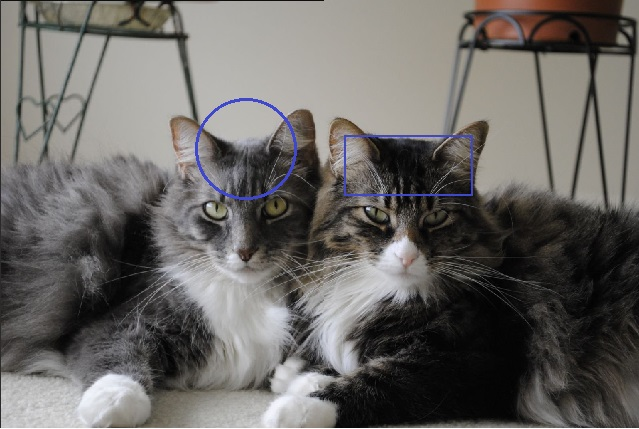
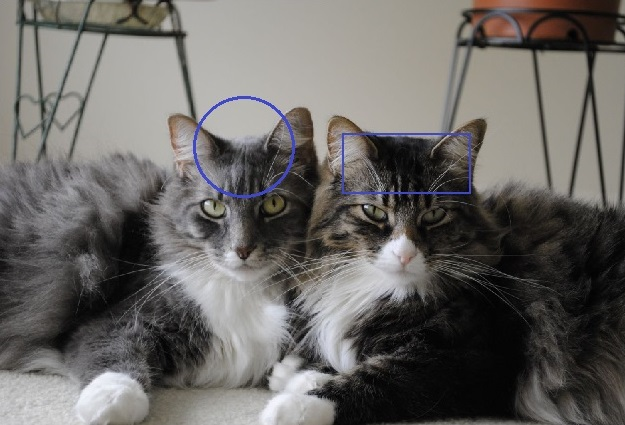
a3

diff --git a/Task_4/This_is_exactly_task_1/This_is_absolutely_exactly_task_1/index.html b/Task_4/This_is_exactly_task_1/This_is_absolutely_exactly_task_1/index.html
@@ -5,7 +5,7 @@
   <meta charset="utf-8">
   <meta name="Shadrina_Marina_24gr" content="Task_1">
   <link rel="shortcut icon" href="mathbes.png" type="image/x-icon">
-  <link rel="stylesheet" href="style_mobile.css">
+  <link rel="stylesheet" href="style.css">
   <meta name="viewport" content="width=device-width, initial-scale=1.0, user-scalable=no">
   <title>Гайд для матобесиков</title>
 </head>
@@ -220,10 +220,10 @@
           Говорят если погладить кошку тут ○ или тут ■ можно узнать всю правду...<br>
           <img src="2cats.jpg" class="cats" alt="2cats" usemap="#kv">
           <map name="kv">
-            <area shape="rect" coords="345,136,472,195"
+            <area shape="rect" coords="343,135,471,193"
               href="https://i.pinimg.com/564x/d6/87/bb/d687bb0bf41ff455724272cc3c93960c.jpg"
               alt="Прямоугольная область">
-            <area shape="circle" coords="247,150,50"
+            <area shape="circle" coords="244,148,52"
               href="https://i.pinimg.com/564x/af/ac/e8/aface8ae6a0c7f3d7c23f81e2ba16059.jpg" alt="Круглая область">
           </map>
         </li>

diff --git a/Task_4/This_is_exactly_task_1/This_is_absolutely_exactly_task_1/style.css b/Task_4/This_is_exactly_task_1/This_is_absolutely_exactly_task_1/style.css
@@ -26,9 +26,6 @@ body {
 	height: 50%;
 }
 
-.cats {
-	width: 100%;
-}
 
 
 /*шапка*/
@@ -222,9 +219,8 @@ footer {
 		height: 50%;
 	}
 
-	.cats {
-		width: 50%;
-	}
+	
+
 	.table {
 		font-size: 1.5vw;
 	}
